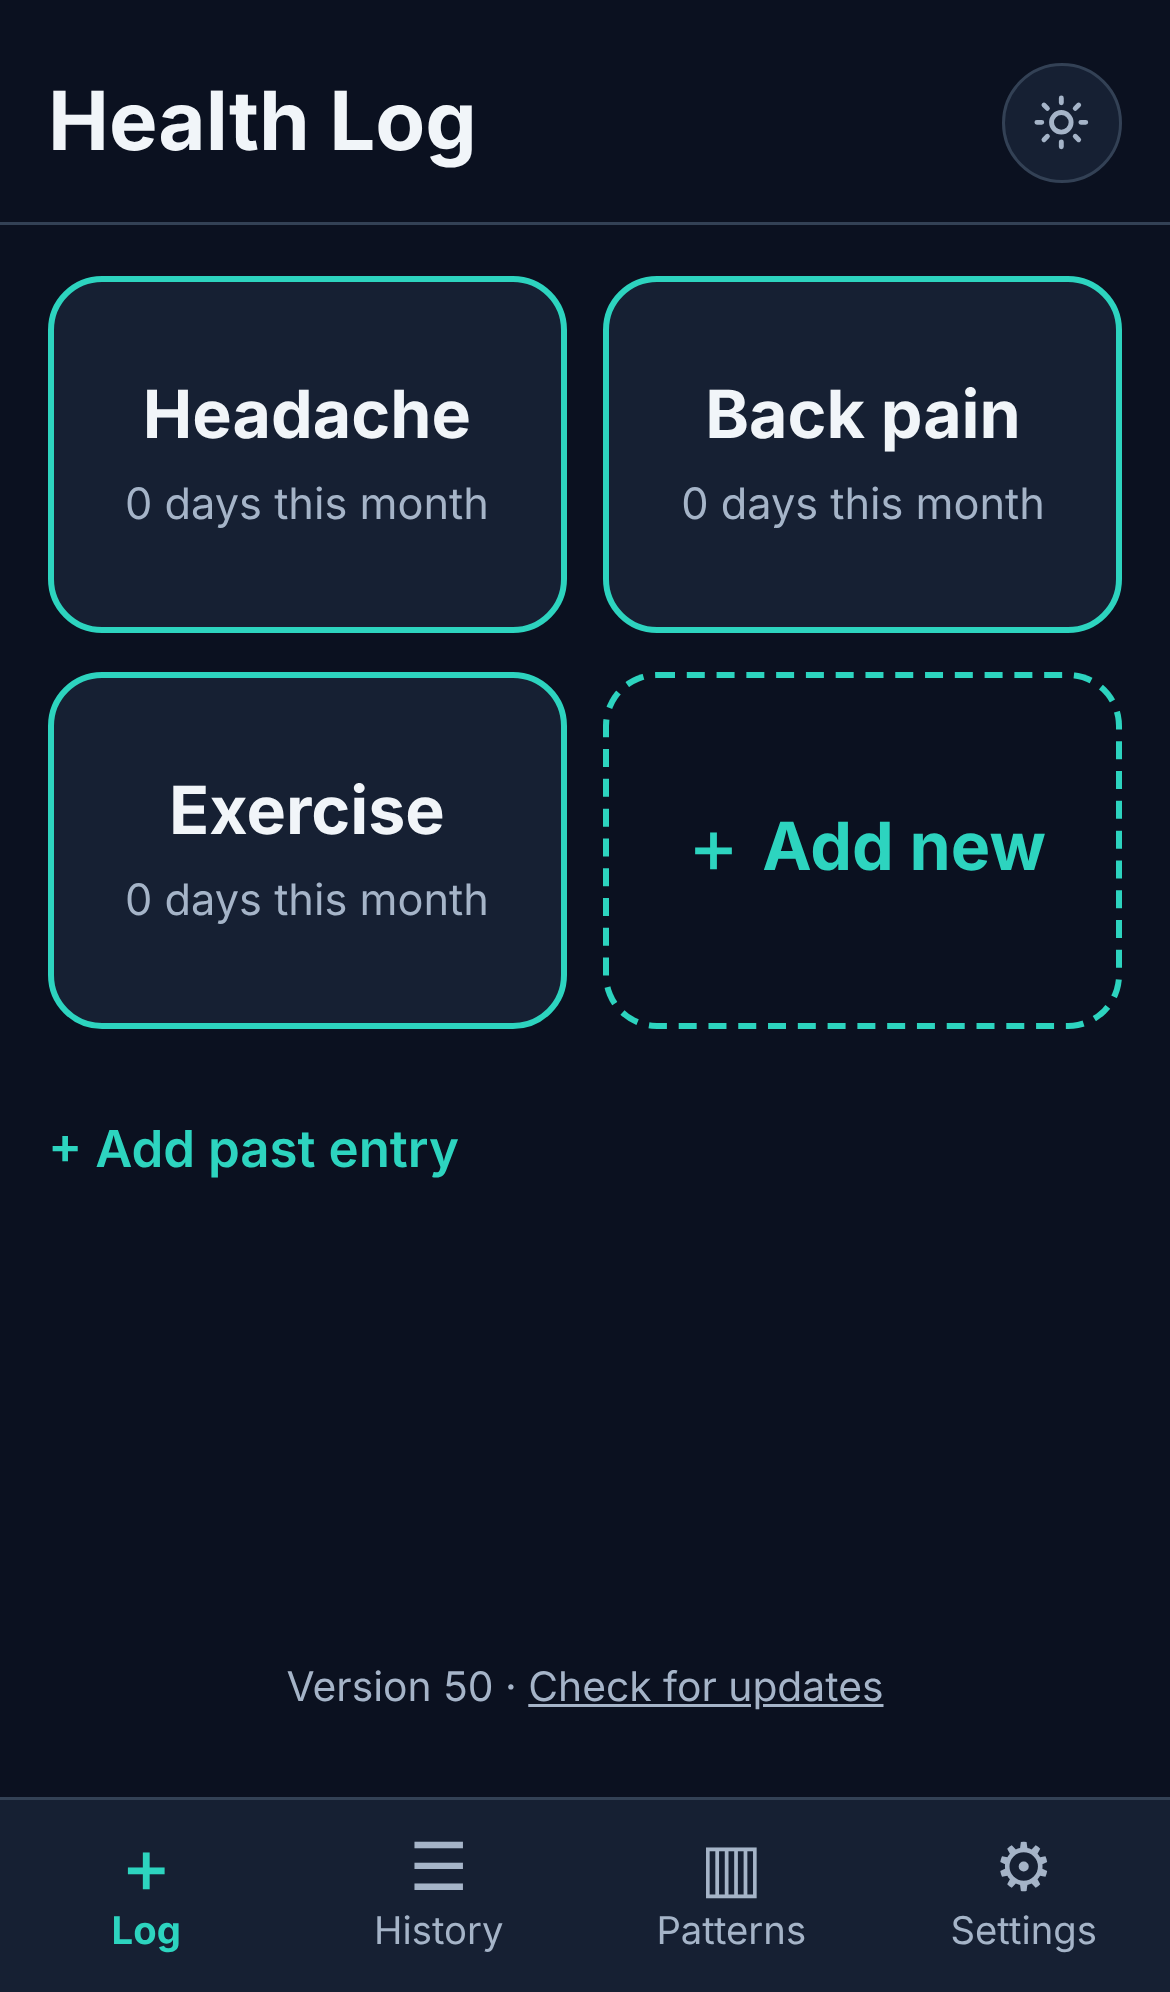
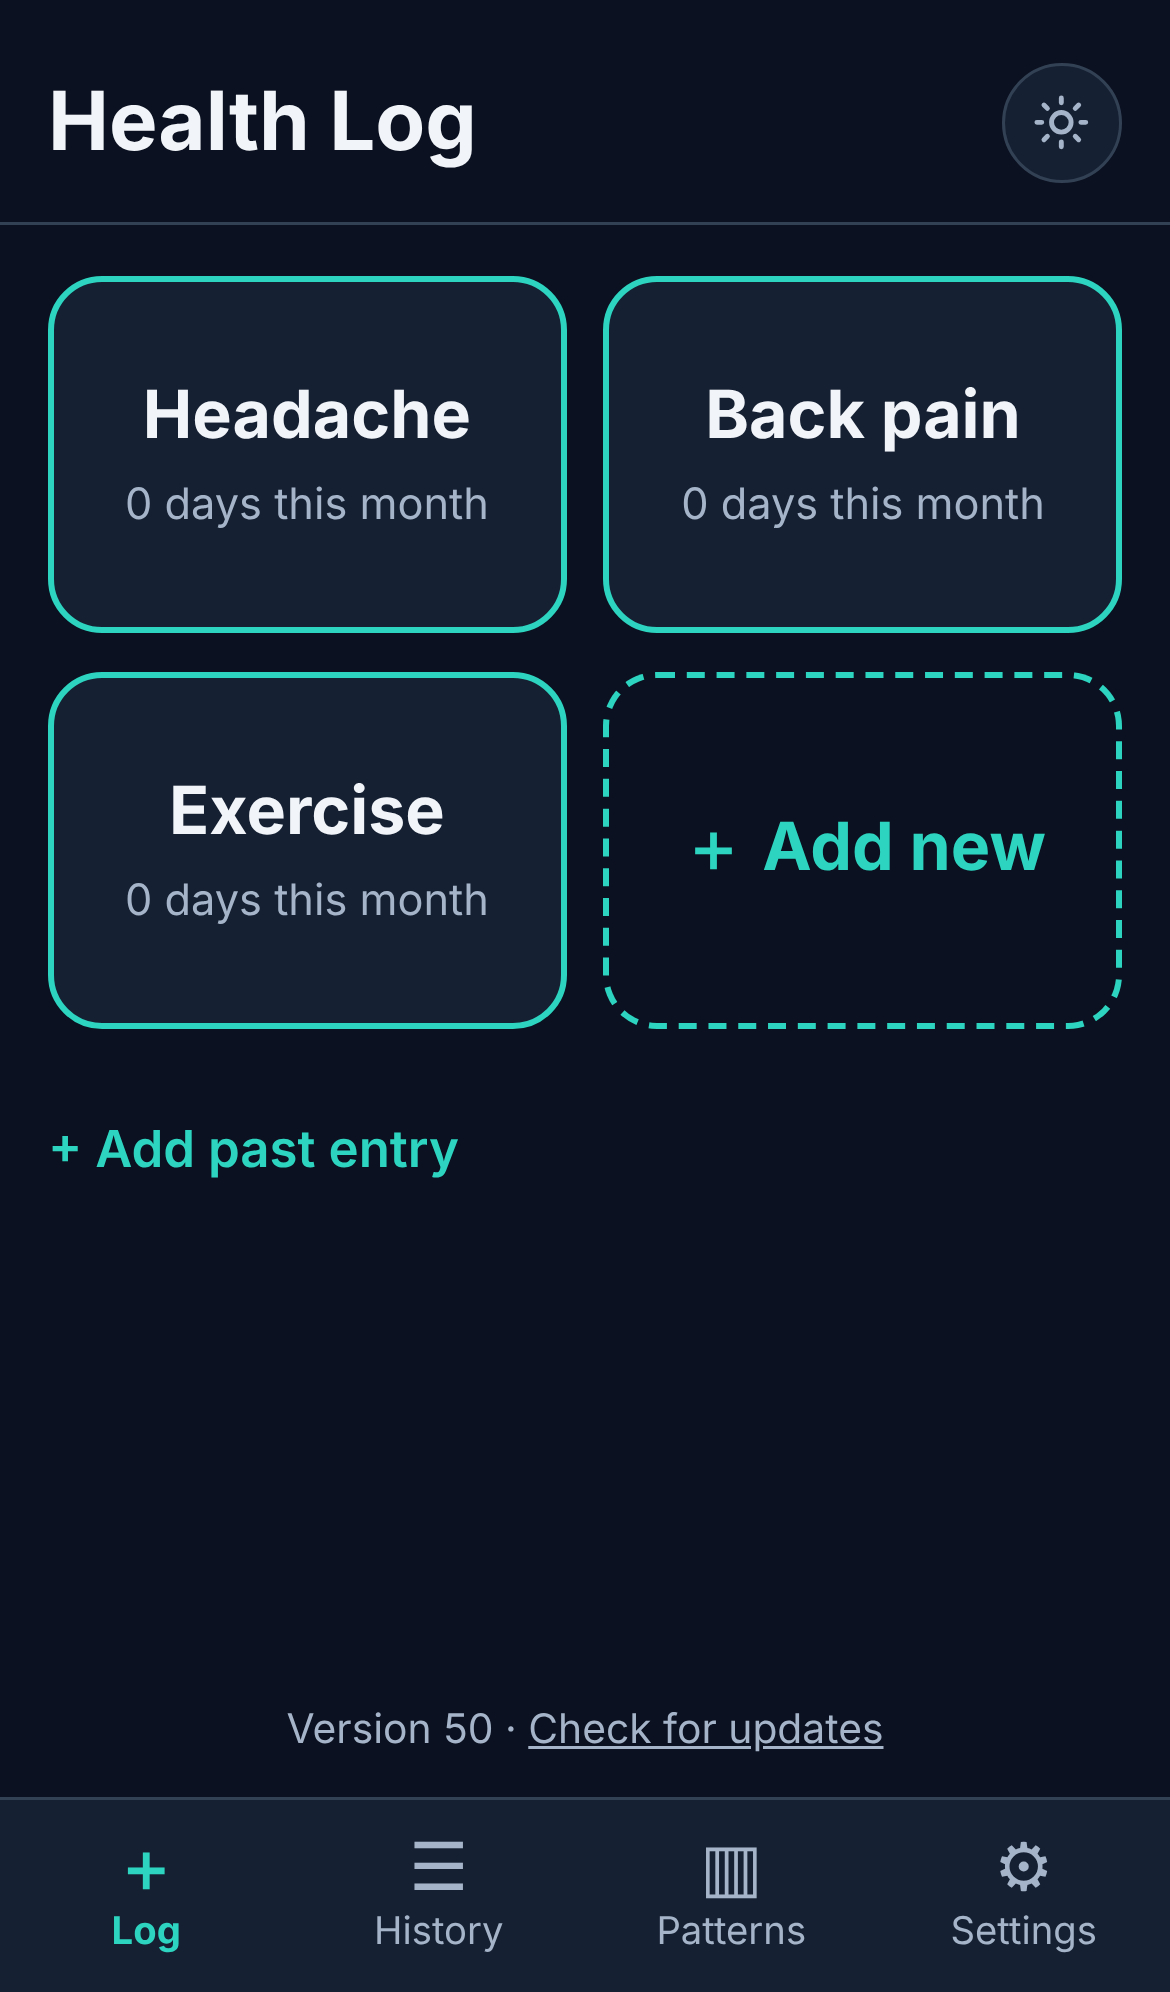
Version line closer to the tab bar
The gap between the Log screen's version line and the tab bar drops
from about 25px to 10px, including when a long list is scrolled to the
end and at larger text sizes.

Claude-Session: https://claude.ai/code/session_01THJrFJZ8Ar5E2j9p4zThBU

Changed region(s): [[0.2462, 0.8404, 0.7692, 0.9026]]

diff --git a/style.css b/style.css
@@ -353,7 +353,7 @@ dialog legend { padding: 0; margin-bottom: .3rem; }
 #view-log .add-past { align-self: flex-start; } /* stay left-aligned in the flex column */
 .app-footer { margin-top: 1.75rem; text-align: center; font-size: .8rem; line-height: 1.7; color: var(--muted); }
 /* On Log it sits at the bottom of the page, just above the tab bar (or after a long list). */
-#view-log .app-footer { margin-top: auto; padding-top: 1.5rem; margin-bottom: -.75rem; }
+#view-log .app-footer { margin-top: auto; padding-top: 1.5rem; margin-bottom: -1.6rem; }
 .app-footer .link-btn { margin: 0; min-height: 0; position: relative; color: var(--muted); font-weight: 400; text-decoration: underline; }
 .app-footer .link-btn::after { content: ''; position: absolute; inset: -.75rem -.5rem; } /* big tap area, normal line spacing */
 
